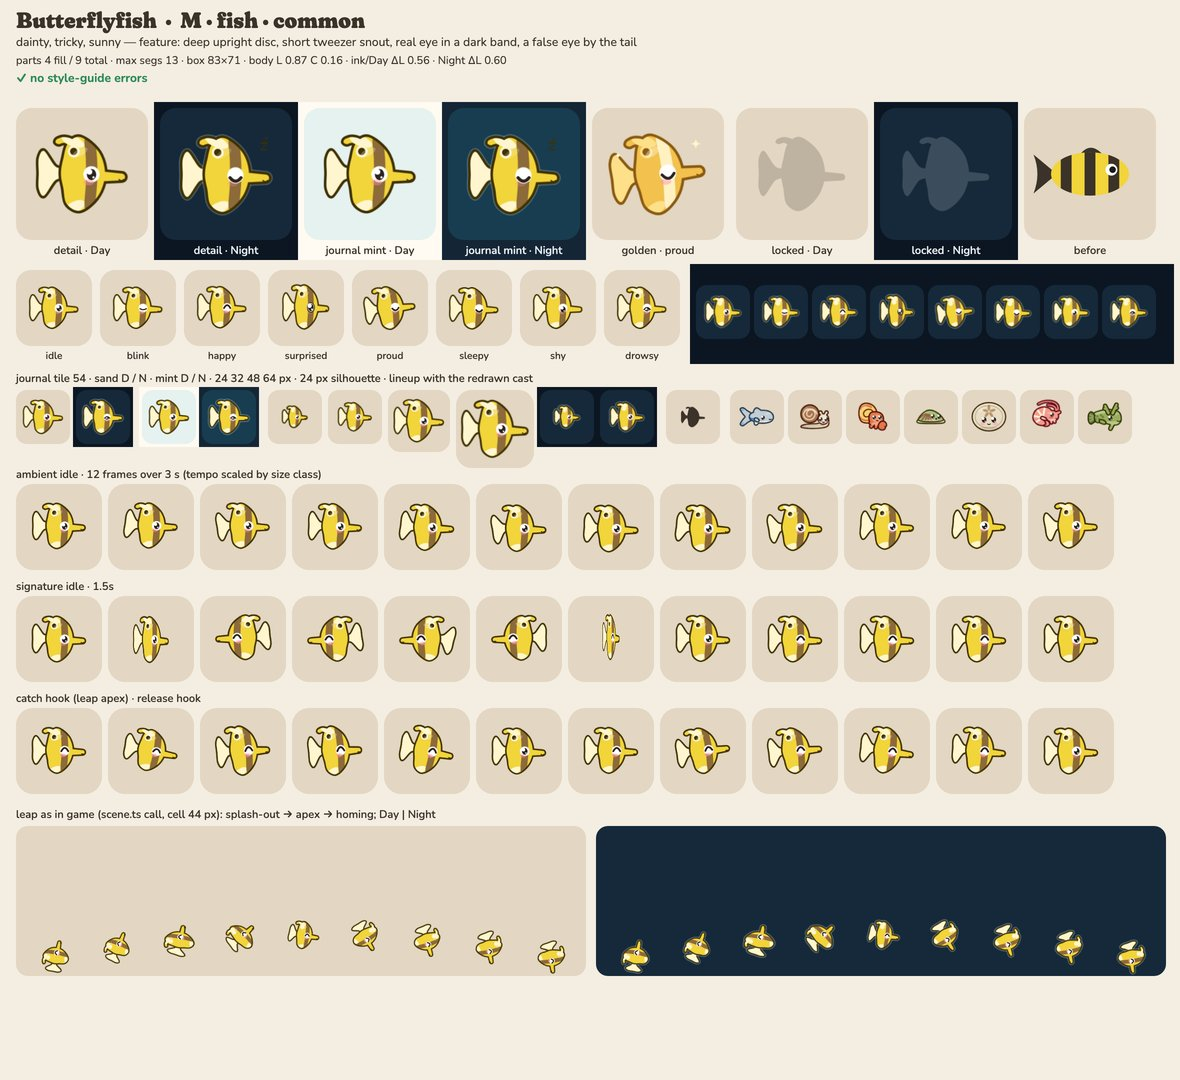
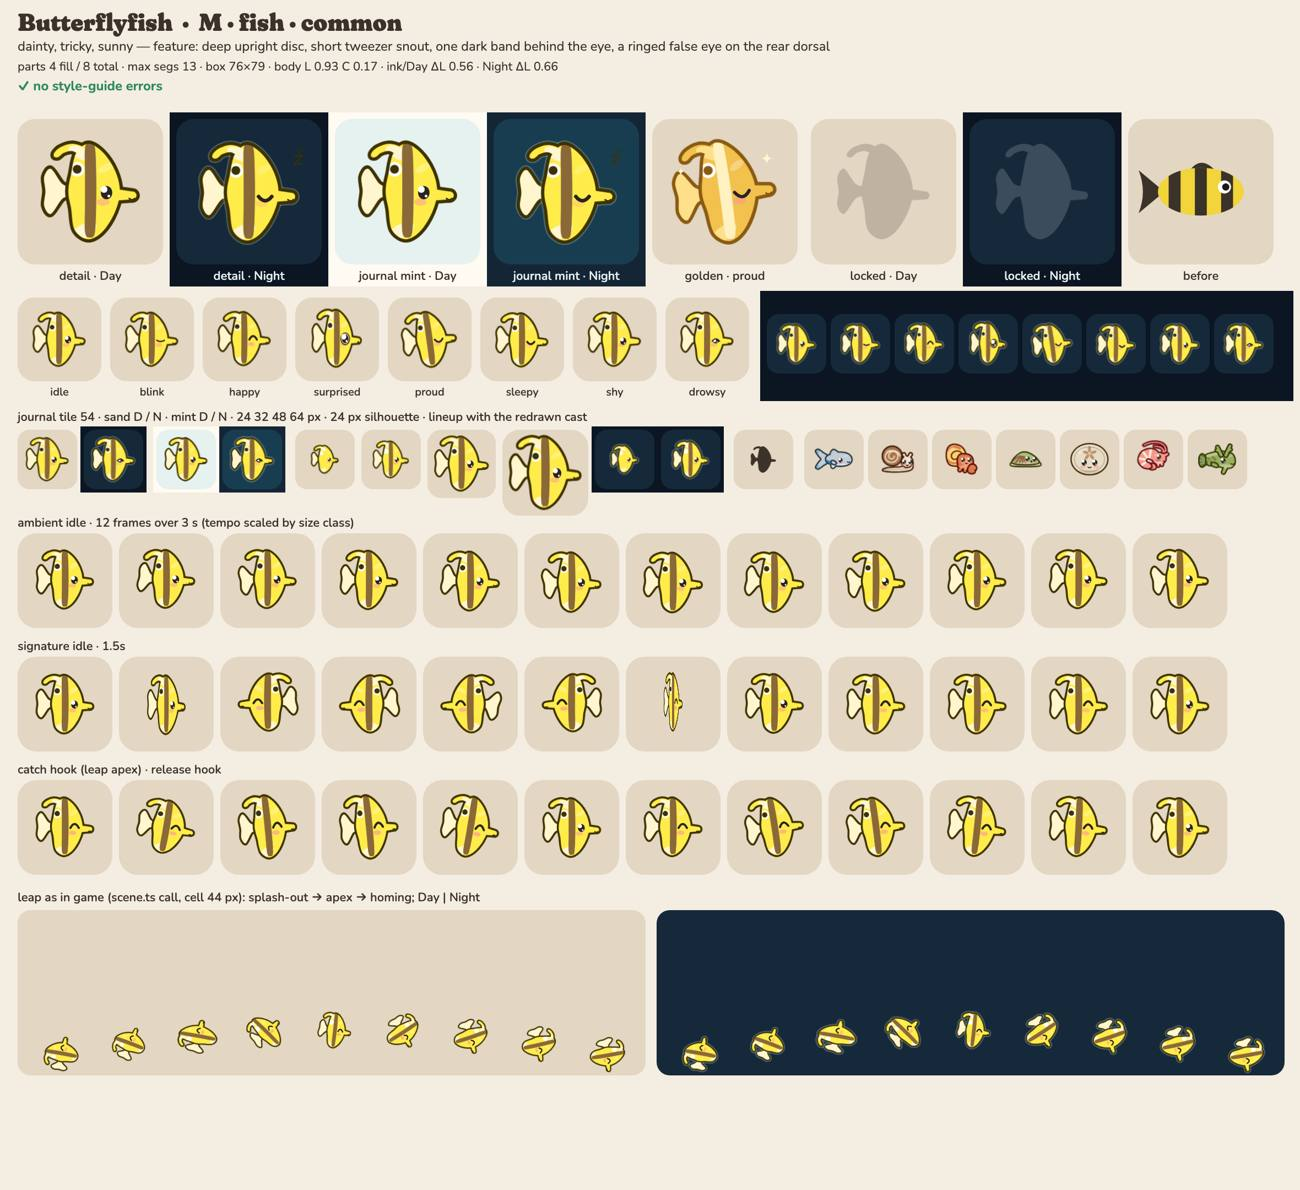
render: butterfly art round 4 (ADR 0011)
Eye on clear yellow, band 4 u behind it; snout -30%; ringed 7 u false
eye on the rear dorsal; lemon body #FFEC4A (R16 deviation: no yellow at
L <= 0.90 clears boxfish/seahorse/goldturtle by dE 6). Smaller rounded
fan tail + longer pennant keep IoU < 0.70 vs damsel/puffer.
Sheet: no errors; 54 px reads as a butterflyfish.

diff --git a/src/render/art/species/butterfly.ts b/src/render/art/species/butterfly.ts
@@ -1,8 +1,8 @@
 /**
  * Butterflyfish — the reef's little trickster (fish class, profile view, level).
  * Silhouette (R10): a deep, upright disc (taller than long), a short straight tweezer snout, a narrow
- * tail root and a clear pale fan tail. The real eye sits in a dark vertical eye-band (the classic
- * mask) inside a white ring; a smaller ringed false eye near the tail is the joke.
+ * tail root and a clear pale fan tail. The real eye sits on clear lemon yellow, 4 u ahead of one
+ * dark vertical band; a ringed false eye on the rear dorsal, behind the band, is the joke.
  * Personality: dainty, tricky, sunny. Signature: spins round to show the false eye, spins back and
  * winks with the real one.
  */
@@ -13,16 +13,16 @@ const disc = blob(
   [
     [18, 0],
     [14, -17],
-    [4, -29],
-    [-8, -35],
-    [-18, -28],
+    [4, -32],
+    [-8, -39],
+    [-18, -31],
     [-22, -14],
     [-24, -4],
     [-24, 4],
     [-22, 14],
-    [-19, 29],
-    [-8, 36],
-    [4, 30],
+    [-19, 32],
+    [-8, 39.5],
+    [4, 33],
     [14, 17],
   ],
   1,
@@ -30,25 +30,26 @@ const disc = blob(
 // the threadfin's pennant: a short plump filament off the rear dorsal corner (−40 %, rounded tip)
 const filament = tube(
   [
-    [-14, -29.5, 3.2],
-    [-21, -32, 2.8],
-    [-27, -30.5, 2.6],
+    [-13, -33, 3.4],
+    [-21, -36, 3],
+    [-29, -34, 2.7],
+    [-34, -30, 2.5],
   ],
   1,
 );
 // the short straight tweezer snout (rounded tip, R3)
-const snout = capsule(15, 3, 4.8, 34, 3.5, 3.3);
+const snout = capsule(15, 3, 4.8, 28.3, 3.5, 3.3);
 // narrow tail root, then a clear fan tail in the pale fin colour
 const tail = blob(
   [
     [-21, -3.5],
-    [-30, -7],
-    [-40.5, -21.5],
-    [-45.5, -14.5],
-    [-45.5, 0],
-    [-45.5, 14.5],
-    [-40.5, 21.5],
-    [-30, 7],
+    [-29, -6],
+    [-38.5, -18.5],
+    [-44, -12],
+    [-43, 0],
+    [-44, 12],
+    [-38.5, 18.5],
+    [-29, 6],
     [-21, 3.5],
   ],
   0.95,
@@ -56,28 +57,27 @@ const tail = blob(
 // the eye-band: a vertical mask through the eye, mid-dark (never eye-coloured, R18E)
 const band = tube(
   [
-    [3, -34, 4.6],
-    [5, -14, 5.4],
-    [5, 10, 5.4],
-    [3, 32, 4.6],
+    [-6.5, -36, 4],
+    [-6, -14, 4.6],
+    [-6, 10, 4.6],
+    [-6.5, 34, 4],
   ],
   1,
 );
-// white ring so the real eye pops out of its mask
-const ring = circle(5, 1, 7.8);
 // pale fin margins top and bottom at the back (they read as the soft dorsal/anal fins)
 const fins = join(ellipse(-13, -31, 12, 5, 24), ellipse(-12, 33, 12, 5.5, -28));
 // the false eye on the rear dorsal: a 7 u dark dot in a pale cream ring
-const falseRing = circle(-12, -21, 5.8);
-const falseEye = circle(-12, -21, 3.5);
+const falseRing = circle(-17, -18, 6);
+const falseEye = circle(-17, -18, 3.6);
 
 export default defineArt({
   id: 'butterfly',
   klass: 'fish',
   size: 'M',
-  feature: 'deep upright disc, short tweezer snout, real eye in a dark band, a false eye by the tail',
+  feature:
+    'deep upright disc, short tweezer snout, one dark band behind the eye, a ringed false eye on the rear dorsal',
   personality: ['dainty', 'tricky', 'sunny'],
-  palette: { body: '#F2D43B', accent: '#8C6A3A', belly: '#FFF6D0' },
+  palette: { body: '#FFEC4A', accent: '#8A6838', belly: '#FFF6D0' },
   groups: [
     {
       id: 'tail',
@@ -92,18 +92,20 @@ export default defineArt({
         { d: filament, role: 'body', extra: true },
         { d: fins, role: 'belly', kind: 'pattern' },
         { d: band, role: 'accent', kind: 'pattern' },
-        { d: ring, role: 'white', kind: 'pattern' },
-        { d: falseRing, role: 'belly', kind: 'pattern' },
+        { d: falseRing, role: 'white', kind: 'pattern' },
         { d: falseEye, role: 'ink', kind: 'pattern' },
       ],
     },
   ],
-  shine: ellipse(-6, -20, 8, 3.4, -28),
+  shine: ellipse(6, -19, 6.5, 3, -30),
+  deviations: {
+    R16: 'lemon L 0.93: no yellow at L ≤ 0.90 sits ΔE ≥ 6 from the boxfish, seahorse and gold turtle bodies',
+  },
   face: {
-    eyes: [[5, 1]],
-    eye: 10.6,
-    zone: [-8, -25, 38, 46],
-    mouth: { at: [33.5, 5.8], w: 4.4, shape: 'smile' },
+    eyes: [[7, 1]],
+    eye: 11,
+    zone: [-6, -25, 38, 46],
+    mouth: { at: [27.8, 5.8], w: 4.4, shape: 'smile' },
     sweet: true,
   },
   idle: {
